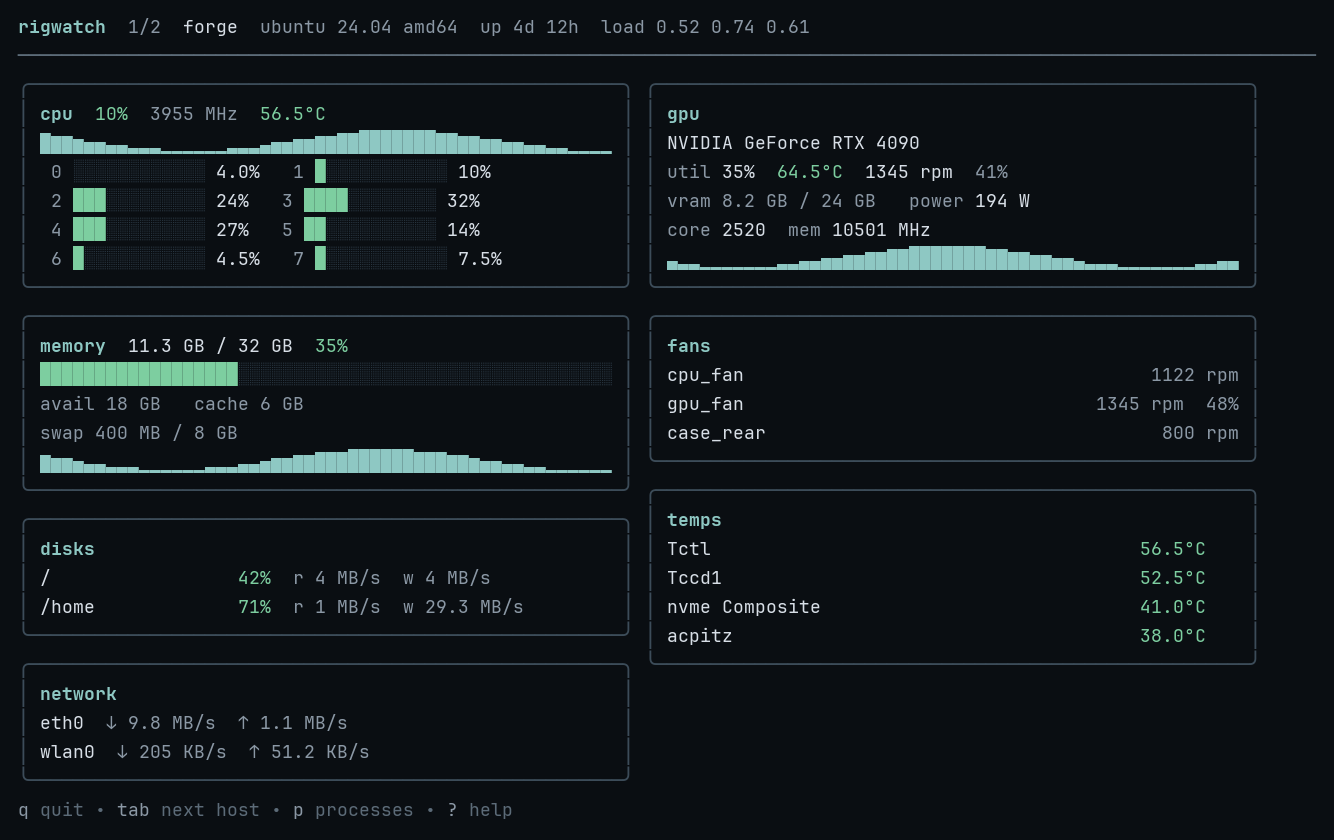
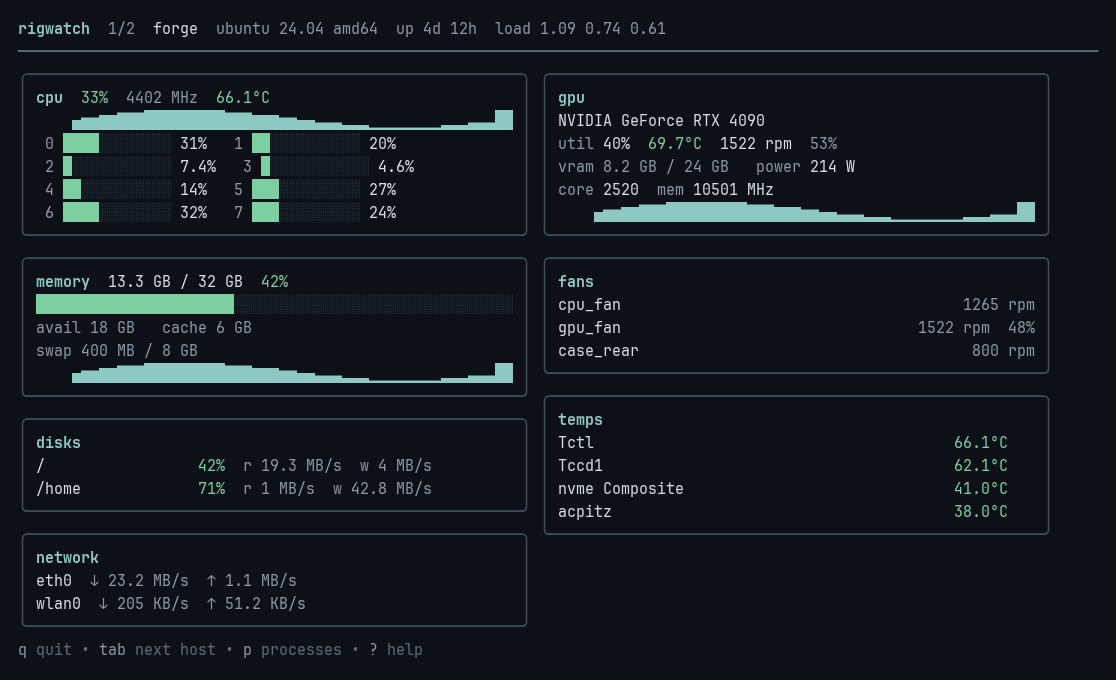
Refresh the README and sample frames for v0.3.0.
Document process kill, sorts, and top-three ranks, point alerts at the example config, and replace the dashboard, process, and connect shots. Add an alert-banner frame.

diff --git a/README.md b/README.md
@@ -1,20 +1,22 @@
 # rigwatch
 
-Cross-platform terminal monitor for machine vitals: CPU and GPU temperatures, fans, memory, disks, network, and the busiest processes.
+Terminal monitor for CPU, GPU, memory, disks, network, temperatures, fans, and the busiest processes. It watches this machine, or other hosts over SSH and WebSocket. A missing sensor stays on screen with a short hint.
 
-It watches the machine you are on, or other hosts over SSH and WebSocket. A missing sensor stays on screen with a short hint. It does not crash the UI.
+![Demo dashboard: CPU, GPU, memory, fans, temperatures, disks, and network](docs/demo.png)
 
-![Demo dashboard from rigwatch --demo: CPU, GPU, memory, fans, temperatures, disks, and network](docs/demo.png)
+*Dashboard from `rigwatch --demo`.*
 
-*Demo dashboard (`rigwatch --demo`) on a synthetic Ubuntu host.*
+![Process list sorted by GPU, with ranks 1–3 and GPU, VRAM, and memory columns](docs/processes.png)
 
-![Process list sorted by CPU](docs/processes.png)
+*Processes (`p`), sorted by GPU (`g`). Ranks 1–3 follow the current sort. GPU and VRAM show when a process reports them.*
 
-*Top processes (`p`), still from `rigwatch --demo`.*
-
-![Two-host pager, header shows 1/2](docs/connect.png)
+![Two-host view, header shows 1/2](docs/connect.png)
 
 *Two hosts (`rigwatch connect`). The header shows `1/2`. `tab` switches machines.*
+
+![Alert banner above the dashboard, GPU card outlined, footer says 1 alert](docs/alert.png)
+
+*Alert banner from `rigwatch --demo --temp-amber 61`. The GPU card takes the amber border, and the footer counts `1 alert`.*
 
 ## Install
 
@@ -22,13 +24,13 @@ It watches the machine you are on, or other hosts over SSH and WebSocket. A miss
 go install github.com/tushar1210/rigwatch@latest
 ```
 
-Prebuilt binaries for macOS, Linux, and Windows (`amd64` and `arm64`) are on the [v0.1.0 release](https://github.com/tushar1210/rigwatch/releases/tag/v0.1.0). SHA256 checksums are in [`checksums.txt`](https://github.com/tushar1210/rigwatch/releases/download/v0.1.0/checksums.txt).
+Prebuilt binaries for macOS, Linux, and Windows (`amd64` and `arm64`) are on the [v0.3.0 release](https://github.com/tushar1210/rigwatch/releases/tag/v0.3.0). SHA256 checksums are in [`checksums.txt`](https://github.com/tushar1210/rigwatch/releases/download/v0.3.0/checksums.txt).
 
 | | amd64 | arm64 |
 | --- | --- | --- |
-| Linux | [tar.gz](https://github.com/tushar1210/rigwatch/releases/download/v0.1.0/rigwatch_0.1.0_linux_amd64.tar.gz) | [tar.gz](https://github.com/tushar1210/rigwatch/releases/download/v0.1.0/rigwatch_0.1.0_linux_arm64.tar.gz) |
-| macOS | [tar.gz](https://github.com/tushar1210/rigwatch/releases/download/v0.1.0/rigwatch_0.1.0_darwin_amd64.tar.gz) | [tar.gz](https://github.com/tushar1210/rigwatch/releases/download/v0.1.0/rigwatch_0.1.0_darwin_arm64.tar.gz) |
-| Windows | [zip](https://github.com/tushar1210/rigwatch/releases/download/v0.1.0/rigwatch_0.1.0_windows_amd64.zip) | [zip](https://github.com/tushar1210/rigwatch/releases/download/v0.1.0/rigwatch_0.1.0_windows_arm64.zip) |
+| Linux | [tar.gz](https://github.com/tushar1210/rigwatch/releases/download/v0.3.0/rigwatch_0.3.0_linux_amd64.tar.gz) | [tar.gz](https://github.com/tushar1210/rigwatch/releases/download/v0.3.0/rigwatch_0.3.0_linux_arm64.tar.gz) |
+| macOS | [tar.gz](https://github.com/tushar1210/rigwatch/releases/download/v0.3.0/rigwatch_0.3.0_darwin_amd64.tar.gz) | [tar.gz](https://github.com/tushar1210/rigwatch/releases/download/v0.3.0/rigwatch_0.3.0_darwin_arm64.tar.gz) |
+| Windows | [zip](https://github.com/tushar1210/rigwatch/releases/download/v0.3.0/rigwatch_0.3.0_windows_amd64.zip) | [zip](https://github.com/tushar1210/rigwatch/releases/download/v0.3.0/rigwatch_0.3.0_windows_arm64.zip) |
 
 ## Usage
 
@@ -66,58 +68,30 @@ rigwatch agent --listen :7777 --token "$RIGWATCH_TOKEN"
 | `tab` / `shift+tab` | Next / previous host |
 | `p` | Processes |
 | `j` / `k`, arrows | Select a process |
-| `c` | Sort processes by CPU |
-| `m` | Sort processes by memory (RSS; working set on Windows) |
-| `g` | Sort processes by GPU utilization |
-| `G` | Sort processes by GPU memory |
-| `x` | Kill the selected process. `y` sends SIGTERM, `n` cancels, `9` then `y` sends SIGKILL |
+| `c` | Sort by CPU |
+| `m` | Sort by memory (RSS; working set on Windows) |
+| `g` | Sort by GPU utilization |
+| `G` | Sort by GPU memory |
+| `x`, then `y` | SIGTERM the selected process |
+| `x`, then `9`, then `y` | SIGKILL |
+| `n` | Cancel the kill prompt |
 | `?` | Help |
 
-The first three rows for the current sort are marked 1–3.
+The top three rows for the current sort are marked 1–3.
 
-`x` asks before it signals, and only on the machine you are sitting at. macOS and Linux need you to own the process (or root); otherwise the row says `access denied` and the process keeps running. Windows uses `taskkill`, and `9` adds `/F`. `--demo` and `rigwatch connect` do not send a signal.
+`x` asks before it signals, and only on the machine you are sitting at. `--demo` and `rigwatch connect` do not send a signal. macOS and Linux need you to own the process (or root); otherwise the row says `access denied` and the process keeps running. Windows uses `taskkill`, and `9` adds `/F`.
 
-## Config
+## Alerts
 
-Flags override YAML. Lookup order is `--config`, then `$RIGWATCH_CONFIG`, then `~/.config/rigwatch/config.yaml` when that file exists.
+Copy [`rigwatch.example.yaml`](rigwatch.example.yaml). Flags override the file. Lookup is `--config`, then `$RIGWATCH_CONFIG`, then `~/.config/rigwatch/config.yaml` when that file exists.
 
-Copy [`rigwatch.example.yaml`](rigwatch.example.yaml). Thresholds color the panels. Alerts use those limits, and a rolling baseline.
+Thresholds color the panels and fire when a reading crosses them: temperature (`temp_amber` / `temp_red`), CPU, memory, GPU, disk, and fan. CPU and GPU temperatures follow the shared limits unless `cpu_temp_*` or `gpu_temp_*` is set. `fan_rpm_warn: 0` leaves RPM off. `metrics` limits which signals are watched.
 
-```yaml
-thresholds:
-  temp_amber: 75
-  temp_red: 85
-  cpu_warn: 90
-  mem_warn: 90
-  gpu_util_warn: 95
-  disk_warn: 90
-  fan_pct_warn: 95
-  fan_rpm_warn: 0
-alerts:
-  enabled: true
-  bell: true
-  command: "notify-send rigwatch \"$RIGWATCH_KEY $RIGWATCH_VALUE\""
-  cooldown: 2m
-  metrics: [cpu, memory, gpu, temp, disk, fan]
-  baseline:
-    enabled: true
-    window: 10m
-    sustain: 1m
-    margin_percent: 20
-    margin_temp: 10
-    margin_rpm: 400
-    min_samples: 12
-```
+The baseline is the mean of samples inside `window`, excluding the current point. It alerts when a reading stays above that mean by the margin (`margin_percent`, `margin_temp`, or `margin_rpm`) for `sustain`. Disks use the fixed percent only. `min_samples` is how many points the mean needs first.
 
-CPU and GPU temperatures follow `temp_amber` / `temp_red` unless `cpu_temp_*` or `gpu_temp_*` is set. `fan_rpm_warn: 0` leaves RPM off. `metrics` limits which signals are watched.
+The TUI draws a one-line banner, a status count, and highlights the panel. It rings the bell and runs `command` when those are set. The same alert waits until the reading recovers and `cooldown` has passed (default 2m). Amber rising to red still notifies. The banner clears on recovery. `cooldown: 0` re-arms as soon as the reading recovers.
 
-The baseline is the mean of CPU, memory, GPU, temperature, and fan samples inside `window`, excluding the current point. Disks use the fixed percent only. It alerts when a reading stays above that mean by the margin (`margin_percent`, `margin_temp`, or `margin_rpm`) for `sustain`. `min_samples` is how many points the mean needs first.
-
-The same alert does not repeat until the reading recovers and `cooldown` has passed (default 2m). Amber rising to red still notifies. The banner clears on recovery. `cooldown: 0` re-arms as soon as the reading recovers.
-
-The TUI draws a one-line banner, a status count, and highlights the panel. It rings the bell (BEL) and runs `command` when those are set. The agent writes an `alert` event on stdio, SSE (`event: alert`), and WebSocket, and runs `command` too. Snapshot frames are unchanged. WebSocket samples stay bare JSON. An alert frame is `{"type":"alert","alert":{...}}`.
-
-The command sees `RIGWATCH_HOST`, `RIGWATCH_KEY`, `RIGWATCH_LEVEL`, `RIGWATCH_KIND`, `RIGWATCH_METRIC`, `RIGWATCH_VALUE`, and `RIGWATCH_LIMIT`. The TUI and the agent each run it, so set the command on the side that should notify.
+The agent writes `{"type":"alert","alert":{...}}` on stdio and WebSocket, and `event: alert` on SSE, and runs `command` too. Snapshot frames stay as they are. The command sees `RIGWATCH_HOST`, `RIGWATCH_KEY`, `RIGWATCH_LEVEL`, `RIGWATCH_KIND`, `RIGWATCH_METRIC`, `RIGWATCH_VALUE`, and `RIGWATCH_LIMIT`. The TUI and the agent each run it, so set the command on the side that should notify.
 
 ## Platforms
 
